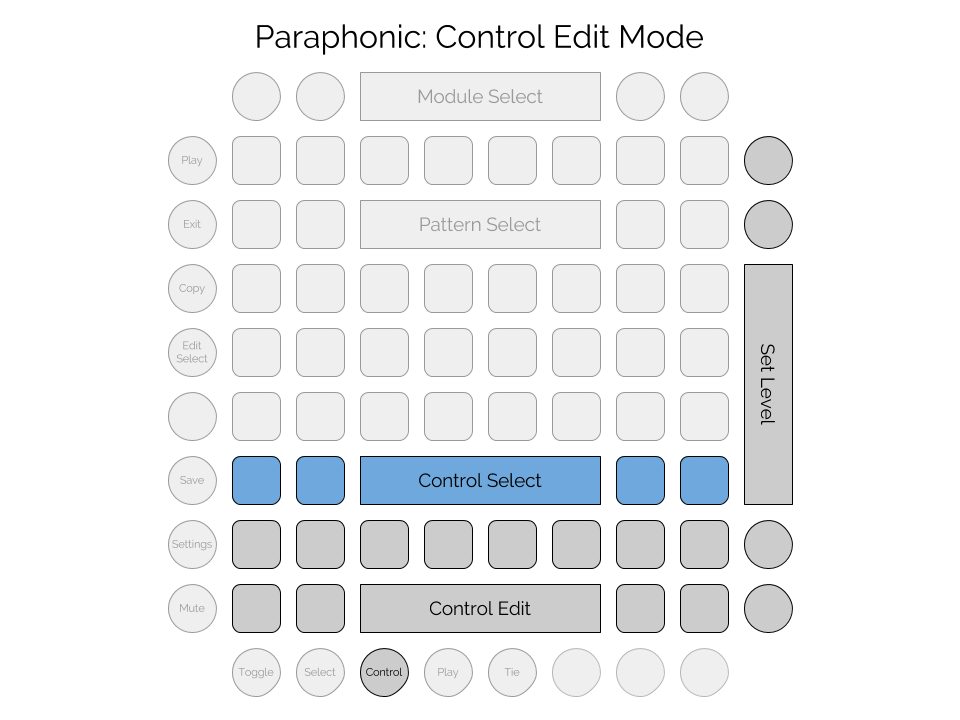
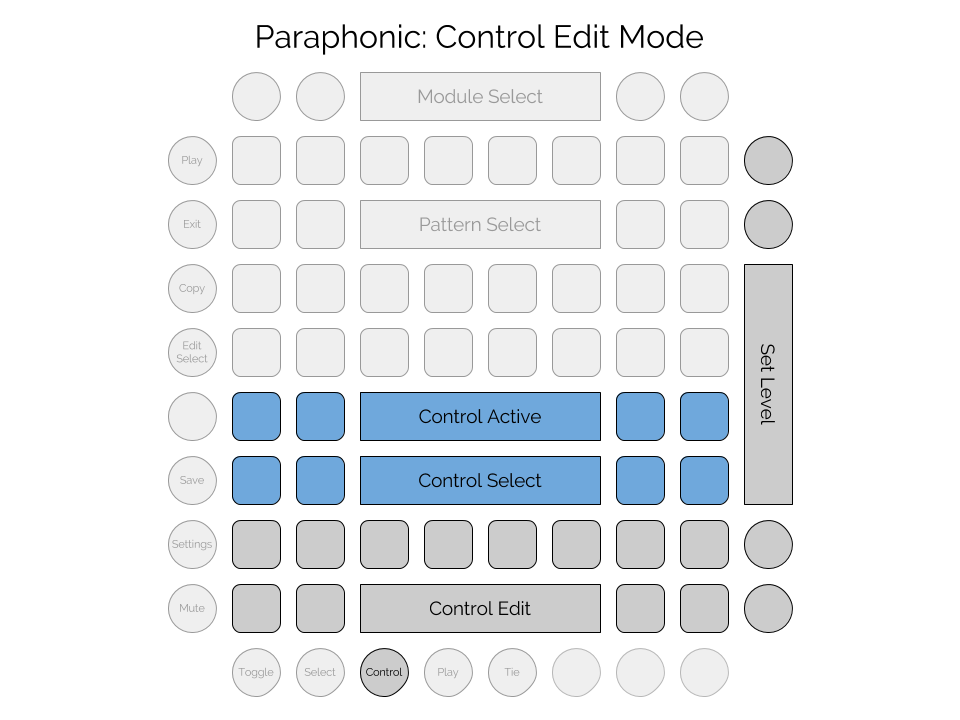
In Para: add ability to activate or deactivate controllers

Changed region(s): [[0.2188, 0.5194, 0.7812, 0.6111]]

diff --git a/src/main/java/net/perkowitz/issho/hachi/modules/para/ParaModule.java b/src/main/java/net/perkowitz/issho/hachi/modules/para/ParaModule.java
@@ -124,7 +124,8 @@ public class ParaModule extends ChordModule implements Module, Clockable, GridLi
         // send controllers before sending notes
         // if controller is enabled for step, send controller value (even if step is a TIE or no notes programmed)
         for (int index = 0; index < ParaMemory.CONTROLLER_COUNT; index++) {
-            if (index < controllerNumbers.length && controllerNumbers[index] != null && step.getControllerEnabled(index)) {
+            if (memory.getControllerActive(index) && index < controllerNumbers.length &&
+                    controllerNumbers[index] != null && step.getControllerEnabled(index)) {
                 sendMidiCC(memory.getMidiChannel(), controllerNumbers[index], step.getControllerValue(index));
             }
         }
@@ -429,6 +430,15 @@ public class ParaModule extends ChordModule implements Module, Clockable, GridLi
                 memory.setSelectedController(index);
                 paraDisplay.drawControllerSelect(memory);
                 paraDisplay.drawSteps(memory, memory.selectedPattern().getSteps());
+            }
+
+        } else if (ParaUtil.controllerActiveControls.contains(control) &&
+                memory.getStepSelectMode() == CONTROL) {
+            // find the control's index, get the current step
+            Integer index = ParaUtil.controllerActiveControls.getIndex(control);
+            if (index != null) {
+                memory.toggleControllerActive(index);
+                paraDisplay.drawControllerSelect(memory);
             }
 
         } else if (octaveDownControl.equals(control)) {

diff --git a/src/main/java/net/perkowitz/issho/hachi/modules/para/ParaUtil.java b/src/main/java/net/perkowitz/issho/hachi/modules/para/ParaUtil.java
@@ -118,9 +118,9 @@ public class ParaUtil {
     public static GridControlSet valueControls = GridControlSet.buttonSideInverted(GridButton.Side.Right);
     public static GridControlSet functionControls = GridControlSet.buttonSide(GridButton.Side.Left, FUNCTION_SAVE_INDEX, FUNCTION_MUTE_INDEX);
     public static GridControlSet controllerSelectControls = GridControlSet.pads(ParaUtil.KEYBOARD_LOWER_WHITE, ParaUtil.KEYBOARD_LOWER_WHITE, 0, ParaMemory.CONTROLLER_COUNT - 1);
+    public static GridControlSet controllerActiveControls = GridControlSet.pads(ParaUtil.KEYBOARD_LOWER_BLACK, ParaUtil.KEYBOARD_LOWER_BLACK, 0, ParaMemory.CONTROLLER_COUNT - 1);
 
     public static GridControl patternCopyControl = new GridControl(GridButton.at(GridButton.Side.Left, 2), 0);
-//    public static GridControl patternClearControl = new GridControl(GridButton.at(GridButton.Side.Left, 3), 0);
     public static GridControl patternEditControl = new GridControl(GridButton.at(GridButton.Side.Left, 3), 0);
     public static GridControl octaveDownControl = new GridControl(GridPad.at(7, KEYBOARD_LOWER_WHITE), 0);
     public static GridControl octaveUpControl = new GridControl(GridPad.at(7, KEYBOARD_LOWER_BLACK), 0);

diff --git a/src/main/java/net/perkowitz/issho/hachi/modules/para/ParaMemory.java b/src/main/java/net/perkowitz/issho/hachi/modules/para/ParaMemory.java
@@ -37,6 +37,7 @@ public class ParaMemory implements MemoryObject {
     @Getter @Setter private ParaUtil.StepSelectMode stepSelectMode = TOGGLE;
     @Getter @Setter private ParaUtil.ValueState valueState = ParaUtil.ValueState.VELOCITY;
     @Getter @Setter private int selectedController = 0;
+    @Getter @Setter private boolean[] controllersActive = { true, true, true, true, true, true, true, true }; // todo limit to CONTROLLER_COUNT
 
 
     public ParaMemory() {
@@ -78,6 +79,18 @@ public class ParaMemory implements MemoryObject {
         return "ParaMemory";
     }
 
+    public boolean getControllerActive(int index) {
+        if (index >= 0 && index < CONTROLLER_COUNT){
+            return controllersActive[index];
+        }
+        return false;
+    }
+
+    public void toggleControllerActive(int index) {
+        if (index >= 0 && index < CONTROLLER_COUNT){
+            controllersActive[index] = !controllersActive[index];
+        }
+    }
 
     /***** select *******************************************************/
 

diff --git a/src/main/java/net/perkowitz/issho/hachi/modules/para/ParaDisplay.java b/src/main/java/net/perkowitz/issho/hachi/modules/para/ParaDisplay.java
@@ -260,6 +260,13 @@ public class ParaDisplay {
             }
             control.draw(display, color);
         }
+        for (GridControl control : controllerActiveControls.getControls()) {
+            Color color = palette.get(COLOR_MODE_INACTIVE);
+            if (memory.getControllerActive(control.getIndex())) {
+                color = palette.get(COLOR_STEP_CONTROL_ENABLED);
+            }
+            control.draw(display, color);
+        }
     }
 
     public void drawValue(int count, ValueState valueState) {
@@ -287,7 +294,7 @@ public class ParaDisplay {
     public void drawControllers(ParaMemory memory) {
         if (memory.getStepSelectMode() == CONTROL) {
             controllerSelectControls.draw(display, palette.get(COLOR_MODE_INACTIVE));
-
+            controllerActiveControls.draw(display, palette.get(COLOR_MODE_INACTIVE));
         }
     }
 

diff --git a/doc/hachi/modules/para.md b/doc/hachi/modules/para.md
@@ -97,7 +97,8 @@ are set in the module config, and the values can be edited in control edit mode.
 mode button will put Para in control edit mode. Row 6 is used to select one of the 8 controllers, 
 and rows 7 and 8 are used to edit the value at each step. Tap a control select button to select the controller,
 tap a step button, and then tap a value button to set a value for that controller on that step. Tapping
-the step buttons toggles them on and off. 
+the step buttons toggles them on and off. Each of the eight controllers can be set to active or 
+inactive, by tapping the corresponding pad in row 5.
 
  
 
